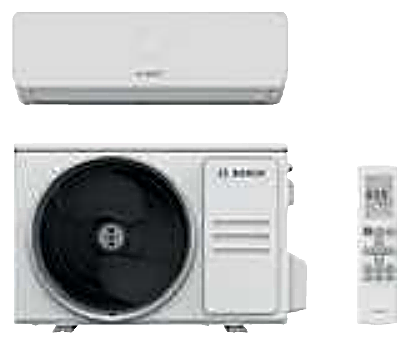
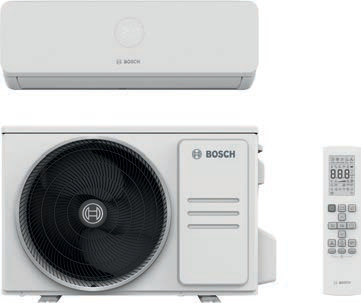
Version 2: scharfe Produktbilder aus dem Ergänzungskatalog 09/2026
Die Bilder aus dem Gesamtkatalog 03/2026 waren nur ~150 px groß eingebettet und
wirkten verpixelt. tools/ergaenzung_import.py exportiert jetzt die hochaufgelösten
Originale (Transparenz auf weißem Grund, Ränder beschnitten) und setzt die farbigen
8000i-/7000i-Sets aus weißem Set + farbigem Innengerät zusammen.

diff --git a/tools/ergaenzung_import.py b/tools/ergaenzung_import.py
@@ -47,6 +47,20 @@ BILD_SEITEN = {  # Kapitel-Titelseite → Bildname (größtes Produktbild der Se
     62: "set_5000il_4cc_twin", 68: "set_5000il_4c_twin", 74: "set_5000il_cf_twin",
     80: "set_5000il_4cc_triple", 86: "set_5000il_4cc_double",
 }
+# Ersatz für die unscharfen Bilder aus dem Gesamtkatalog 03/2026 (dort nur ~150 px eingebettet):
+# Bildname → (Seite, xref) des hochaufgelösten Produktbilds im Ergänzungskatalog
+BILD_ERSATZ = {
+    "set_8000i_weiss": (4, 16), "ie_8000i_anthrazit": (4, 13), "ie_8000i_silber": (4, 14), "ie_8000i_rot": (4, 15),
+    "set_7000i_weiss": (12, 629), "ie_7000i_schwarz": (12, 632), "ie_7000i_silber": (12, 627),
+    "set_6000ip": (20, 95), "set_3200i": (28, 136), "ae_5000m": (92, 402), "ie_konsole_5000i": (92, 400),
+    "ie_wand_3200i": (92, 401), "ie_kassette_5000i": (92, 631), "ae_7000m": (114, 497),
+}
+# Farbvarianten der Sets: im Katalog nur in Weiß hochaufgelöst → weißes Set + farbiges Innengerät
+SET_FARBEN = {
+    "set_8000i_anthrazit": ("set_8000i_weiss", "ie_8000i_anthrazit"), "set_8000i_silber": ("set_8000i_weiss", "ie_8000i_silber"),
+    "set_8000i_rot": ("set_8000i_weiss", "ie_8000i_rot"),
+    "set_7000i_schwarz": ("set_7000i_weiss", "ie_7000i_schwarz"), "set_7000i_silber": ("set_7000i_weiss", "ie_7000i_silber"),
+}
 TYP_RE = re.compile(r"^CLC?\d{4}[A-Za-z]*(?:-Set)?\s+[\w ./-]+$")
 PREIS_RE = re.compile(r"(\d{10})\s*\|\s*([\d.]+,(?:\d\d|––|--))")
 
@@ -256,6 +270,90 @@ def bilder(doc) -> dict[str, str]:
     return out
 
 
+def _bild_weiss(doc, xref):
+    """Eingebettetes Bild inkl. Transparenzmaske auf weißem Grund, Ränder beschnitten."""
+    import pymupdf
+    from PIL import Image, ImageChops
+
+    pix = pymupdf.Pixmap(doc, xref)
+    smask = doc.extract_image(xref).get("smask")
+    if smask:
+        pix = pymupdf.Pixmap(pix, pymupdf.Pixmap(doc, smask))
+    if pix.colorspace and pix.colorspace.n != 3:
+        pix = pymupdf.Pixmap(pymupdf.csRGB, pix)
+    modus = "RGBA" if pix.alpha else "RGB"
+    bild = Image.frombytes(modus, (pix.width, pix.height), pix.samples)
+    if modus == "RGBA":
+        grund = Image.new("RGB", bild.size, "white")
+        grund.paste(bild, mask=bild.split()[3])
+        bild = grund
+    box = ImageChops.difference(bild, Image.new("RGB", bild.size, "white")).point(lambda v: 255 if v > 12 else 0).getbbox()
+    if box:
+        rand = 4
+        bild = bild.crop((max(box[0] - rand, 0), max(box[1] - rand, 0),
+                          min(box[2] + rand, bild.width), min(box[3] + rand, bild.height)))
+    return bild
+
+
+def bilder_ersetzen(doc) -> dict[str, str]:
+    """Ältere, unscharfe Produktbilder durch die Originale aus dem Ergänzungskatalog ersetzen."""
+    out = {}
+    for name, (seite, xref) in BILD_ERSATZ.items():
+        try:
+            bild = _bild_weiss(doc, xref)
+        except Exception as fehler:  # noqa: BLE001 – fehlendes Bild ist kein Abbruchgrund
+            print(f" ! {name}: {fehler}")
+            continue
+        if bild.width * bild.height < 15000:
+            continue
+        bild.save(BILDER / f"{name}.png", optimize=True)
+        out[name] = f"S. {seite}"
+    return out
+
+
+def _innengeraet_bereich(bild):
+    """Bereich des Innengeräts im Set-Bild: oberster Block bis zur ersten breiten Weißlücke."""
+    from PIL import Image, ImageChops
+
+    maske = ImageChops.difference(bild, Image.new("RGB", bild.size, "white")).convert("L").point(
+        lambda v: 255 if v > 12 else 0)
+    leer = [maske.crop((0, y, bild.width, y + 1)).getbbox() is None for y in range(bild.height)]
+    start = None
+    for y, frei in enumerate(leer):
+        if frei and start is None:
+            start = y
+        elif not frei and start is not None:
+            if y - start >= 10:
+                return maske.crop((0, 0, bild.width, start)).getbbox()
+            start = None
+    return None
+
+
+def set_farbvarianten() -> dict[str, str]:
+    """Farbige Sets aus dem scharfen weißen Set und dem farbigen Innengerät zusammensetzen."""
+    from PIL import Image
+
+    out = {}
+    for name, (basis, ie) in SET_FARBEN.items():
+        if not (BILDER / f"{basis}.png").exists() or not (BILDER / f"{ie}.png").exists():
+            continue
+        bild = Image.open(BILDER / f"{basis}.png").convert("RGB")
+        box = _innengeraet_bereich(bild)
+        if not box:
+            continue
+        geraet = Image.open(BILDER / f"{ie}.png").convert("RGB")
+        breite = box[2] - box[0]
+        geraet = geraet.resize((breite, round(geraet.height * breite / geraet.width)), Image.LANCZOS)
+        hoehe = box[3] - box[1]
+        if geraet.height > hoehe + 20:  # passt nicht in die Lücke → Variante nicht erzeugen
+            continue
+        bild.paste((255, 255, 255), box)
+        bild.paste(geraet, (box[0], box[1] + max(hoehe - geraet.height, 0) // 2))
+        bild.save(BILDER / f"{name}.png", optimize=True)
+        out[name] = f"zusammengesetzt aus {basis} + {ie}"
+    return out
+
+
 def main(pdf: str) -> None:
     import pymupdf
 
@@ -279,7 +377,7 @@ def main(pdf: str) -> None:
         "quelle": "Bosch Ergänzungskatalog Klima-, Lüftungs- und Wärmepumpen-Sortiment 09/2026",
         "preisbasis": "Unverbindliche Preisempfehlung netto, zzgl. MwSt., Montage und Material (09/2026)",
         "sets": sets, "aussen": aussen, "innen": innen, "kombinationen": kombis,
-        "preise": alle_preise, "bilder": bilder(doc), "pruefhinweise": hinweise,
+        "preise": alle_preise, "bilder": {**bilder(doc), **bilder_ersetzen(doc), **set_farbvarianten()}, "pruefhinweise": hinweise,
     }
     ZIEL.write_text(json.dumps(erg, ensure_ascii=False, indent=1), encoding="utf-8")
     print(f"{len(sets)} Large-Split-Sets, {len(aussen)} Außen-, {len(innen)} Inneneinheiten neu, "

diff --git a/README.md b/README.md
@@ -134,6 +134,11 @@ python tools/katalog_import.py [Excel-Datei]   # → splitklima/daten/katalog.js
 python tools/katalog_bilder.py Katalog.pdf   # Produktbilder → splitklima/daten/bilder/
 ```
 
+Der Gesamtkatalog 03/2026 enthält nur ~150 px kleine Bilder. `tools/ergaenzung_import.py` ersetzt sie durch die
+hochaufgelösten Originale aus dem Ergänzungskatalog 09/2026 (`BILD_ERSATZ`); die farbigen 8000i- und 7000i-Sets
+werden aus dem scharfen weißen Set und dem farbigen Innengerät zusammengesetzt (`SET_FARBEN`). Nicht ersetzt
+(keine bessere Quelle): Climate 3000i, Kassette 5001iU, Innengeräte 7000i/8000i weiß.
+
 ## Start
 
 ```bash
